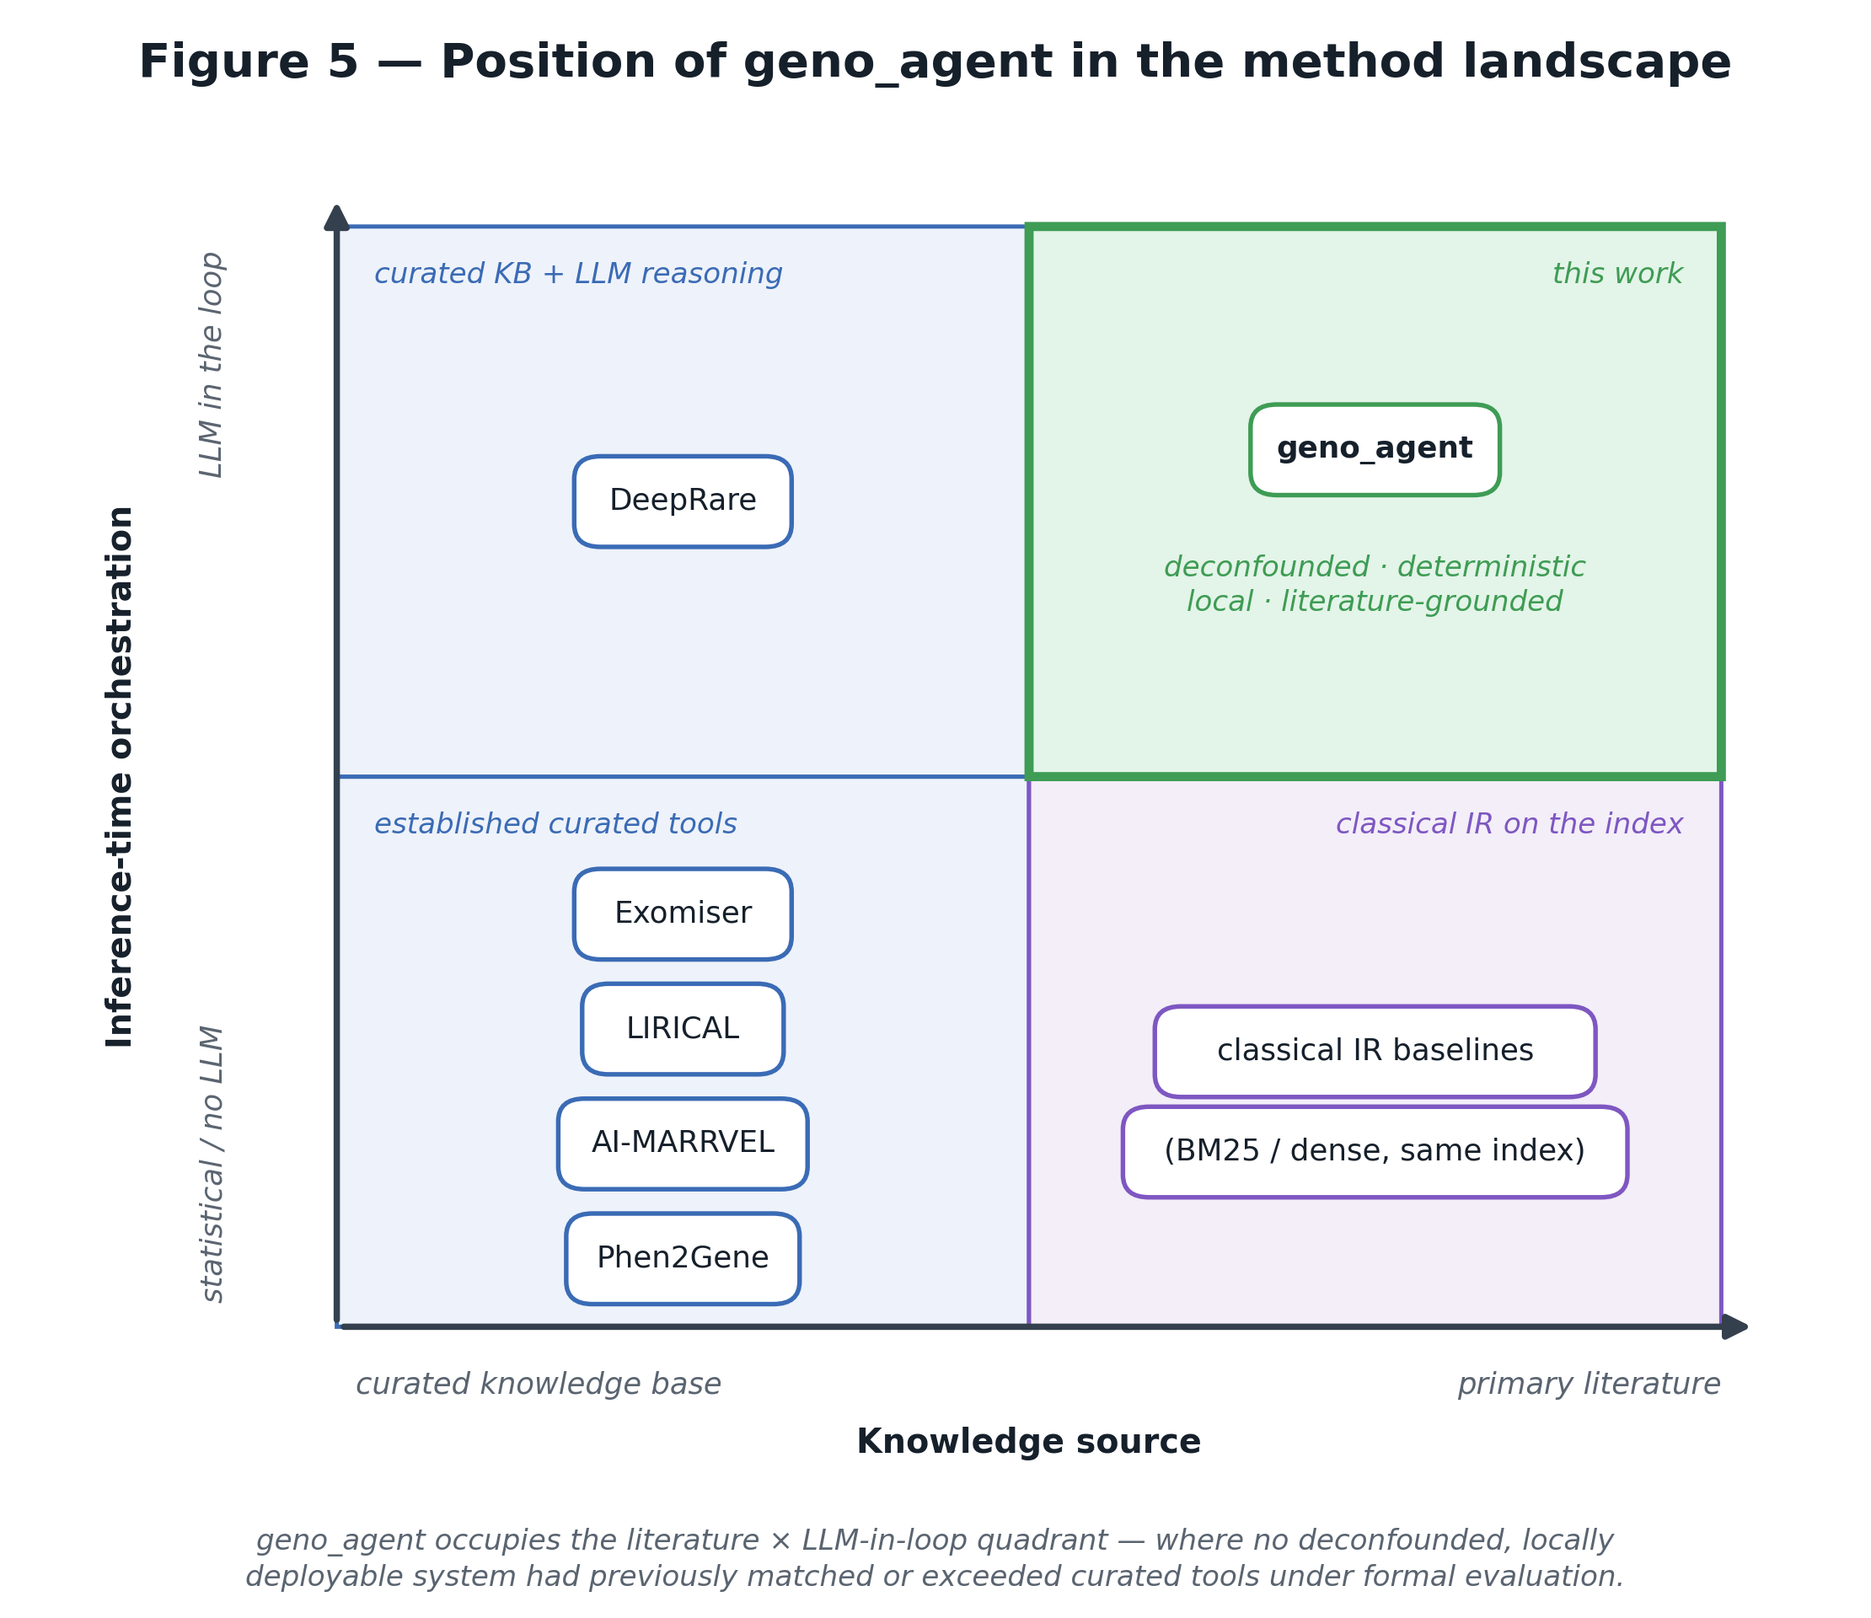
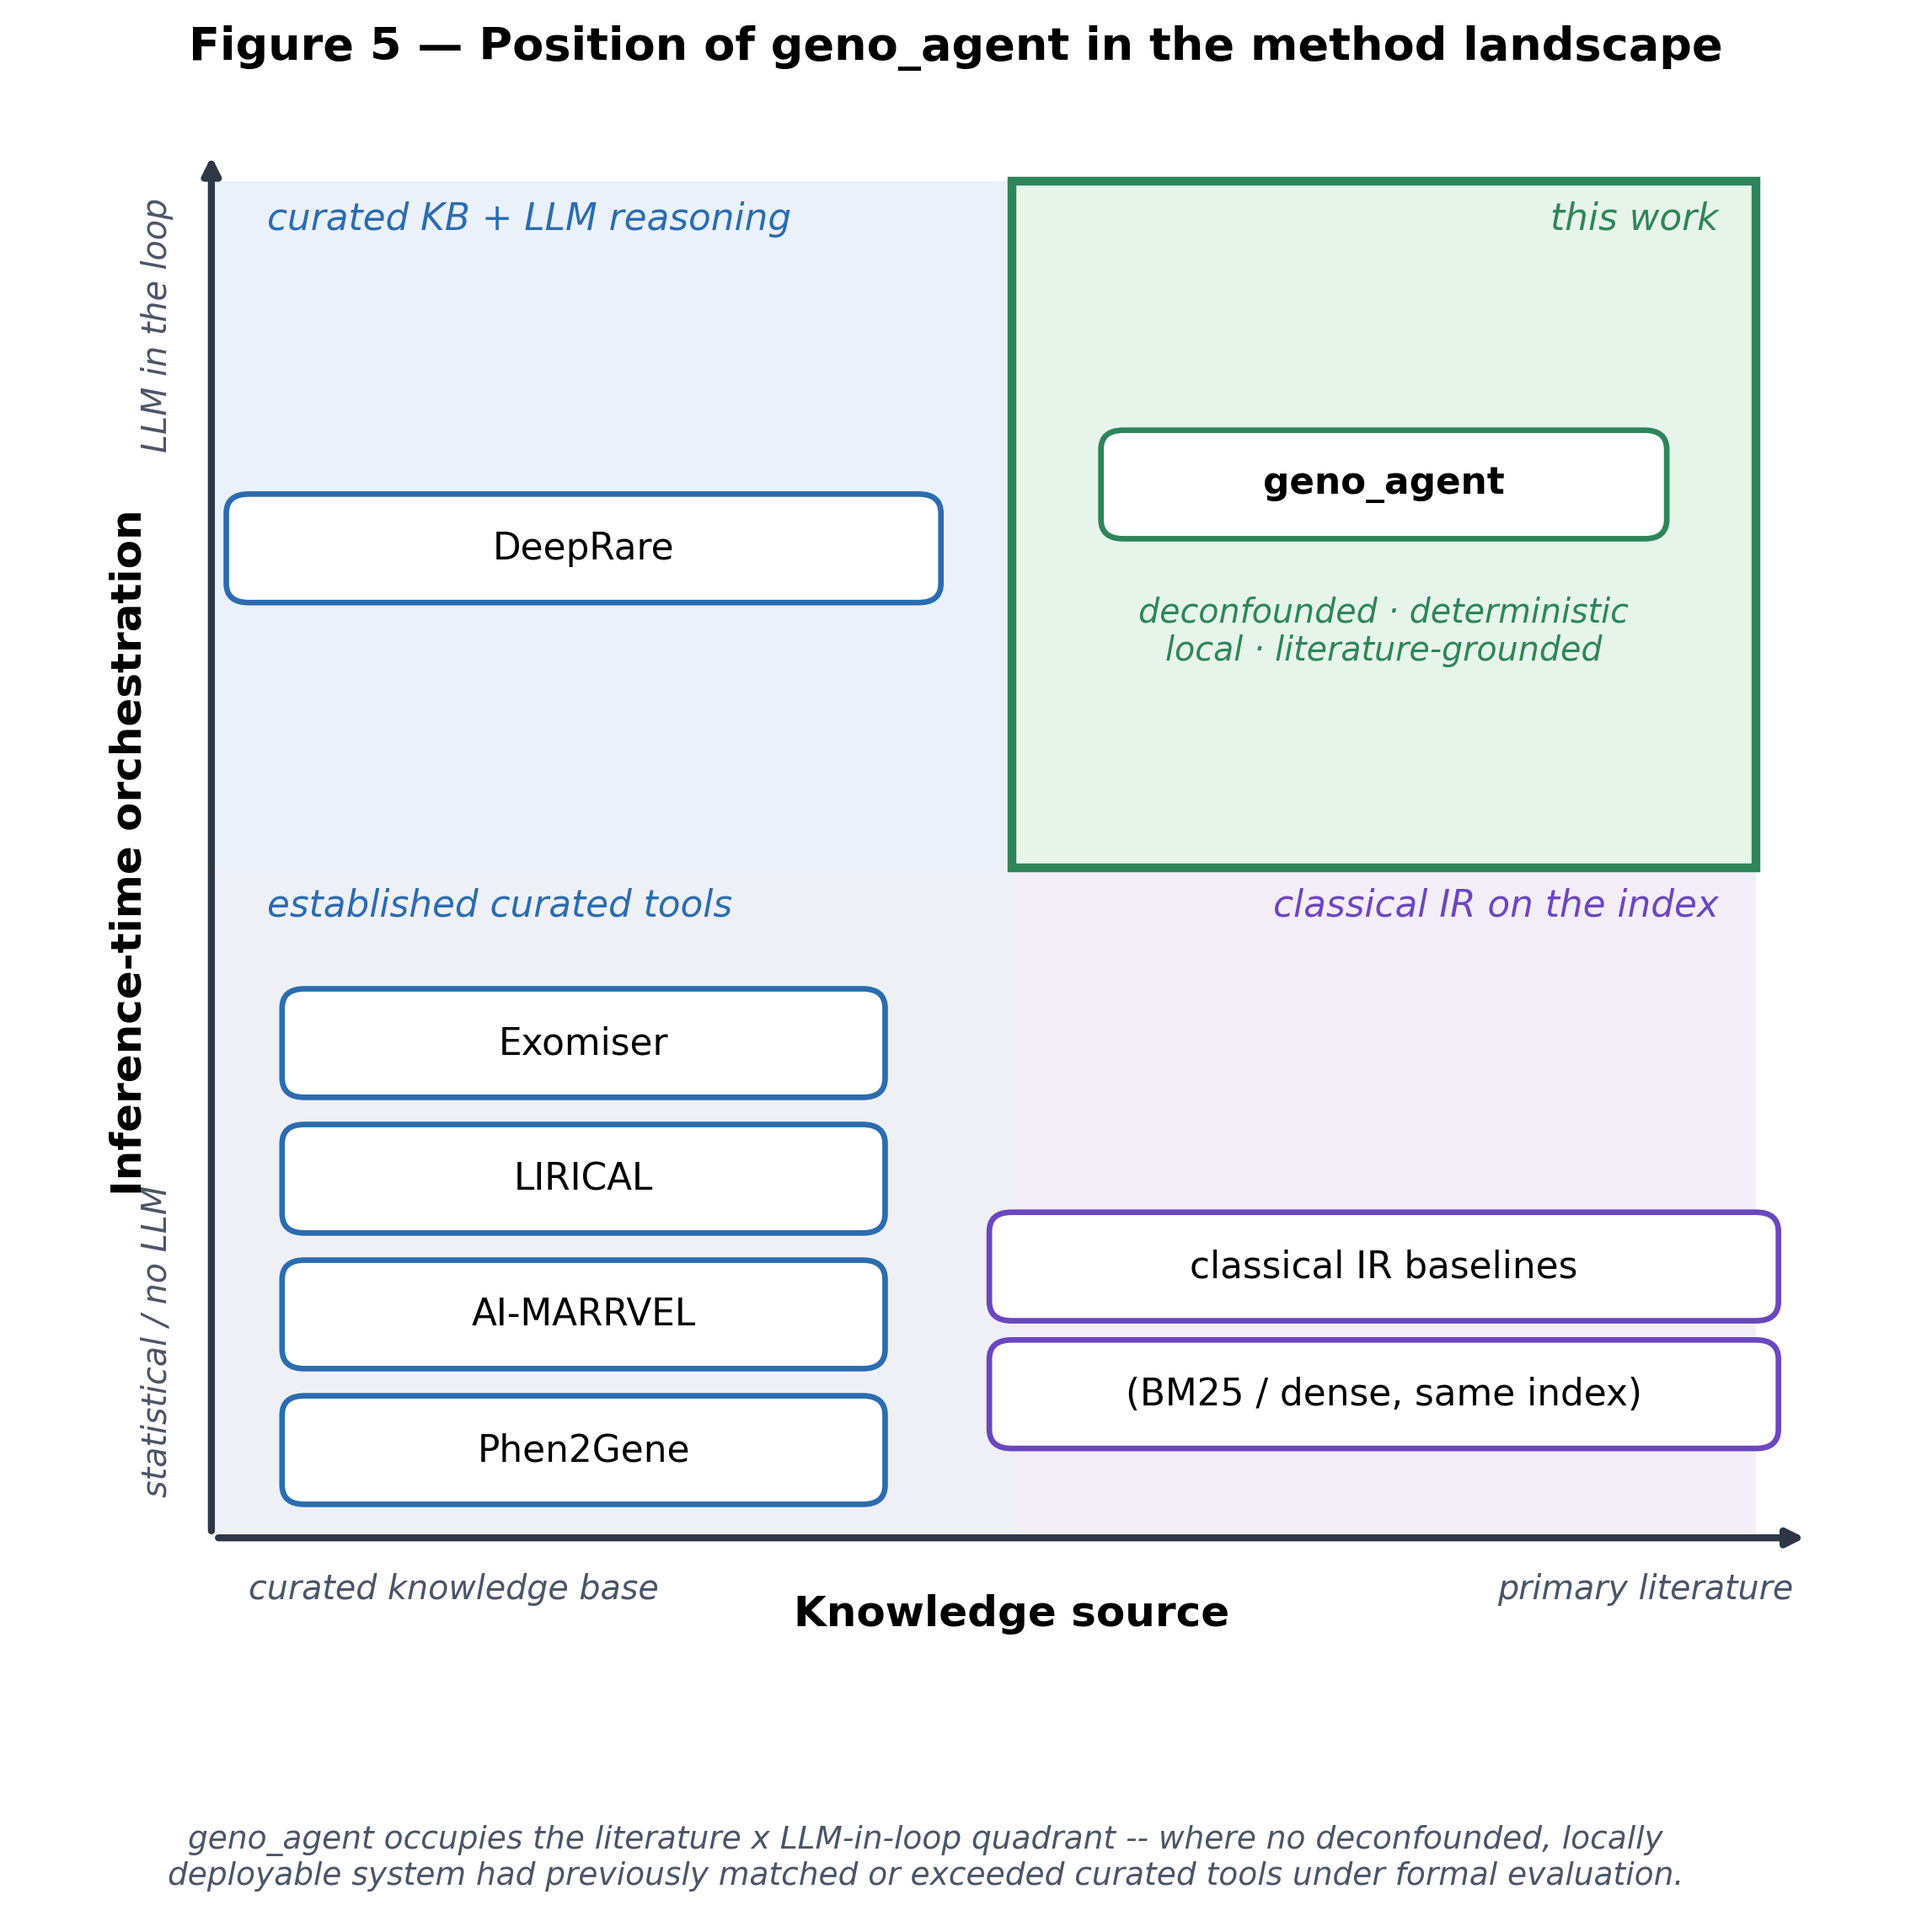
fix(P2 figures): match improved architecture + landscape designs
render_figure2: octagonal I/O terminals with INPUT/OUTPUT labels, updated box text, even spacing, 2-row legend, 1x RTX 5090 bracket. render_figure5_landscape: Figure 5 title prefix.

diff --git a/scripts/manuscript/P2_render_paper_artifacts.py b/scripts/manuscript/P2_render_paper_artifacts.py
@@ -345,12 +345,9 @@ def render_figure5_landscape() -> None:
     ax.add_patch(plt.Rectangle((5.3, 5.2), 4.0, 4.3, fc="none", ec="#2f855a", lw=2.5))
 
     # axes
-    ax.annotate(
-        "", xy=(9.6, 1), xytext=(1, 1), arrowprops=dict(arrowstyle="-|>", color="#2d3748", lw=2)
-    )
-    ax.annotate(
-        "", xy=(1, 9.7), xytext=(1, 1), arrowprops=dict(arrowstyle="-|>", color="#2d3748", lw=2)
-    )
+    _axkw = {"arrowstyle": "-|>", "color": "#2d3748", "lw": 2}
+    ax.annotate("", xy=(9.6, 1), xytext=(1, 1), arrowprops=_axkw)
+    ax.annotate("", xy=(1, 9.7), xytext=(1, 1), arrowprops=_axkw)
     ax.text(5.3, 0.45, "Knowledge source", ha="center", fontsize=12, fontweight="bold")
     ax.text(
         0.45,
@@ -438,7 +435,10 @@ def render_figure5_landscape() -> None:
     tool(7.3, 1.9, "(BM25 / dense, same index)", "#6b46c1", w=2.1)
 
     ax.set_title(
-        "Position of geno_agent in the method landscape", fontsize=13, fontweight="bold", pad=12
+        "Figure 5 — Position of geno_agent in the method landscape",
+        fontsize=13,
+        fontweight="bold",
+        pad=12,
     )
     fig.text(
         0.5,
@@ -459,88 +459,73 @@ def render_figure5_landscape() -> None:
 # Figure 2 -- Multi-agent architecture
 # =============================================================================
 def render_figure2() -> None:
-    """Multi-agent architecture diagram (pipeline view)."""
-    fig, ax = plt.subplots(figsize=(11, 5))
-    ax.set_xlim(0, 12)
-    ax.set_ylim(0, 5)
+    """Multi-agent architecture diagram (horizontal pipeline view).
+
+    Octagonal I/O terminals with INPUT/OUTPUT labels, colour-coded agent boxes,
+    a Cell-S span bracket, and a two-row legend.
+    """
+    fig, ax = plt.subplots(figsize=(12, 6))
+    ax.set_xlim(0, 12.6)
+    ax.set_ylim(0, 6)
     ax.axis("off")
 
+    y = 3.5
+    hw, hh = 0.72, 1.0  # half-width / half-height
     stages = [
-        ("HPO\nterms\n(input)", 0.7, "#edf2f7", "#2d3748"),
-        ("Planner\n(rewrite query\n+ MONDO\ncontext)", 2.3, "#bee3f8", "#2b6cb0"),
-        ("Retriever\n(Qdrant\nhybrid:\ndense + BM25)", 4.0, "#bee3f8", "#2b6cb0"),
-        ("Critic\n(filter,\ndedup, rank\nchunks)", 5.7, "#bee3f8", "#2b6cb0"),
-        ("CE-rerank\n(MedCPT-CE,\ntop-45)", 7.4, "#fed7e2", "#b83280"),
-        ("Synthesiser\n(LEA over\nQwen3-8B,\nvLLM local)", 9.1, "#c6f6d5", "#2f855a"),
-        ("Ranked\ngenes +\nrationale +\nPMC cites", 10.85, "#edf2f7", "#2d3748"),
+        ("HPO terms\n+ 50-gene\ncandidate list", 0.95, "#e2e8f0", "#2d3748", "term"),
+        ("Planner\n(rewrite query,\nMONDO context)", 2.75, "#bee3f8", "#2b6cb0", "box"),
+        ("Retriever\n(Qdrant hybrid:\ndense + BM25)", 4.55, "#bee3f8", "#2b6cb0", "box"),
+        ("Critic\n(filter, dedup,\nrank chunks)", 6.35, "#bee3f8", "#2b6cb0", "box"),
+        ("CE-rerank\n(MedCPT-CE,\ntop-45)", 8.15, "#fed7e2", "#b83280", "box"),
+        ("Synthesiser\n(LEA, Qwen3-8B,\nvLLM local)", 9.95, "#c6f6d5", "#2f855a", "box"),
+        ("Ranked genes\n+ rationale\n+ PMC cites", 11.75, "#e2e8f0", "#2d3748", "term"),
     ]
-    y = 2.6
-    box_h = 1.4
-    for label, x, fc, ec in stages:
-        ax.add_patch(
-            mpatches.FancyBboxPatch(
-                (x - 0.65, y - box_h / 2),
-                1.3,
-                box_h,
-                boxstyle="round,pad=0.1",
-                facecolor=fc,
-                edgecolor=ec,
-                linewidth=1.5,
-            )
-        )
-        ax.text(x, y, label, ha="center", va="center", fontsize=9)
 
-    # Arrows
+    def octagon(cx, cy, w, h, c=0.28):
+        return mpatches.Polygon(
+            [(cx - w + c, cy - h), (cx + w - c, cy - h), (cx + w, cy - h + c),
+             (cx + w, cy + h - c), (cx + w - c, cy + h), (cx - w + c, cy + h),
+             (cx - w, cy + h - c), (cx - w, cy - h + c)],
+            closed=True,
+        )
+
+    for label, x, fc, ec, kind in stages:
+        if kind == "term":
+            patch = octagon(x, y, hw, hh)
+            patch.set(facecolor=fc, edgecolor=ec, linewidth=1.8)
+            ax.add_patch(patch)
+        else:
+            ax.add_patch(mpatches.FancyBboxPatch(
+                (x - hw, y - hh), 2 * hw, 2 * hh,
+                boxstyle="round,pad=0.02,rounding_size=0.12",
+                facecolor=fc, edgecolor=ec, linewidth=1.8))
+        ax.text(x, y, label, ha="center", va="center", fontsize=9.2)
+
+    # INPUT / OUTPUT labels above the terminals
+    ax.text(0.95, y + hh + 0.32, "INPUT", ha="center", fontsize=11, fontweight="bold", color="#2d3748")
+    ax.text(11.75, y + hh + 0.32, "OUTPUT", ha="center", fontsize=11, fontweight="bold", color="#2d3748")
+
     for i in range(len(stages) - 1):
-        x1 = stages[i][1] + 0.65
-        x2 = stages[i + 1][1] - 0.65
-        ax.annotate(
-            "",
-            xy=(x2, y),
-            xytext=(x1, y),
-            arrowprops={"arrowstyle": "->", "color": "#4a5568", "lw": 1.3},
-        )
+        ax.annotate("", xy=(stages[i + 1][1] - hw, y), xytext=(stages[i][1] + hw, y),
+                    arrowprops={"arrowstyle": "-|>", "color": "#4a5568", "lw": 1.6})
 
-    # Group legend at bottom
+    # Cell-S span bracket
+    ax.annotate("", xy=(stages[5][1] + hw, 1.85), xytext=(stages[1][1] - hw, 1.85),
+                arrowprops={"arrowstyle": "|-|", "color": "#2f855a", "lw": 1.6})
+    ax.text(6.35, 1.35, "geno_agent (Cell S) — 26.1 s/case mean, 1× RTX 5090, $0 cloud",  # noqa: RUF001
+            ha="center", va="center", fontsize=10, color="#2f855a", style="italic")
+
     legend_handles = [
-        mpatches.Patch(color="#bee3f8", label="LangGraph agents (deterministic)"),
-        mpatches.Patch(color="#fed7e2", label="Neural reranking"),
-        mpatches.Patch(color="#c6f6d5", label="LLM-as-Evidence-Aggregator (LEA)"),
-        mpatches.Patch(color="#edf2f7", label="I/O"),
+        mpatches.Patch(facecolor="#bee3f8", edgecolor="#2b6cb0", label="LangGraph agents (deterministic)"),
+        mpatches.Patch(facecolor="#fed7e2", edgecolor="#b83280", label="Neural reranking"),
+        mpatches.Patch(facecolor="#c6f6d5", edgecolor="#2f855a", label="LLM-as-Evidence-Aggregator (LEA)"),
+        mpatches.Patch(facecolor="#e2e8f0", edgecolor="#2d3748", label="Input / Output (terminals)"),
     ]
-    ax.legend(
-        handles=legend_handles,
-        loc="lower center",
-        bbox_to_anchor=(0.5, -0.06),
-        ncol=4,
-        frameon=False,
-        fontsize=9,
-    )
+    ax.legend(handles=legend_handles, loc="lower center", bbox_to_anchor=(0.5, -0.04),
+              ncol=2, frameon=False, fontsize=9.5, columnspacing=3, handlelength=1.4)
 
-    # Indicate the geno_agent (Cell S) span
-    ax.annotate(
-        "",
-        xy=(9.75, 0.6),
-        xytext=(1.65, 0.6),
-        arrowprops={"arrowstyle": "|-|", "color": "#2f855a", "lw": 1.5},
-    )
-    ax.text(
-        5.7,
-        0.3,
-        "geno_agent (Cell S) — 26.1 s/case mean, 1 RTX 5090, $0 cloud",
-        ha="center",
-        va="center",
-        fontsize=9.5,
-        color="#2f855a",
-        style="italic",
-    )
-
-    ax.set_title(
-        "Figure 2 — geno_agent multi-agent retrieval-augmented architecture",
-        pad=12,
-        fontsize=12,
-        fontweight="bold",
-    )
+    ax.set_title("Figure 2 — geno_agent multi-agent retrieval-augmented architecture",
+                 pad=12, fontsize=13, fontweight="bold")
     fig.savefig(FIG_DIR / "fig2_architecture.png")
     plt.close(fig)
     print("  ✓ Figure 2 (architecture)")
